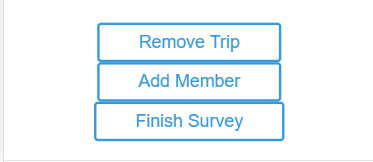
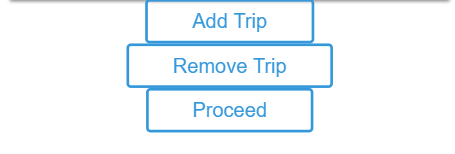
updating hhs wiki

Changed region(s): [[0.0, 0.0, 1.0, 0.8831]]

diff --git a/src/Components/Wiki/Wiki_HHS.js b/src/Components/Wiki/Wiki_HHS.js
@@ -41,7 +41,7 @@ class Wiki extends Component {
         <div className={classes.Wiki}>
           <h4>Aim:</h4>
           <p>
-            The aim of this project is to build a tool to collect the trip
+            The aim of this survey is to build a tool to collect the trip
             diaries conveniently without asking any personal information and
             locations of the users. A typical trip diary attempts to answer the
             following questions:
@@ -177,7 +177,7 @@ class Wiki extends Component {
               </li>
               <li>
                 Enter if you are respondent, head of family and whether if you
-                stay at home for the whole day and click on submit.
+                stay at home for the whole day and click on submit.{" "}
                 <span
                   className={classes.ImageLink}
                   onClick={() => this.onClickHandler(MemberScreenshot3)}
@@ -192,7 +192,7 @@ class Wiki extends Component {
             <li>Trip page:</li>
             <ul>
               <li>
-                Enter the state and district in which a trip is made.{" "}
+                Enter the state and district in which a trip is made, and click on proceed. If the trip is outside the study region, a new member page will appear. {" "}
                 <span
                   className={classes.ImageLink}
                   onClick={() => this.onClickHandler(TripScreenshot1)}
@@ -212,7 +212,7 @@ class Wiki extends Component {
                 </span>
               </li>
               <li>
-                Enter the type of origin and appeoximate departure time.{" "}
+                Enter the type of origin and approximate departure time.{" "}
                 <span
                   className={classes.ImageLink}
                   onClick={() => this.onClickHandler(TripScreenshot3)}
@@ -233,7 +233,7 @@ class Wiki extends Component {
               </li>
               <li>
                 Enter the travel modes (vehicle/walk) in the order which the
-                member has used them.
+                member has used them.{" "}
                 <span
                   className={classes.ImageLink}
                   onClick={() => this.onClickHandler(TripScreenshot5)}
@@ -242,8 +242,8 @@ class Wiki extends Component {
                 </span>
               </li>
               <li>
-                Select the travel time, travel cost and travel distance ranges
-                for the whole trip. Click on 'Add Trip'.
+                Select the travel cost and travel distance ranges
+                for the whole trip. After that, click on 'Add Trip'.{" "}
                 <span
                   className={classes.ImageLink}
                   onClick={() => this.onClickHandler(TripScreenshot6)}
@@ -257,9 +257,8 @@ class Wiki extends Component {
                 departure time.
               </li>
               <li>
-                Click on 'Remove trip' to remove a trip. Click on 'Add Member'
-                if all trips of the current member are entered. Click on 'Finish
-                Survey' only if information of all members are entered.{" "}
+                Click on 'Remove trip' to remove a trip. Click on 'Proceed'
+                if all trips of the current member are entered. This process will be repeated for all members.{" "}
                 <span
                   className={classes.ImageLink}
                   onClick={() => this.onClickHandler(TripScreenshot7)}

diff --git a/src/Components/Wiki/Wiki.js b/src/Components/Wiki/Wiki.js
@@ -7,7 +7,7 @@ import Tabs from "@material-ui/core/Tabs";
 import Tab from "@material-ui/core/Tab";
 import Typography from "@material-ui/core/Typography";
 import Box from "@material-ui/core/Box";
-import WikiHss from "./Wiki_HSS";
+import WikiHhs from "./Wiki_HHS";
 import WikiPts from "./Wiki_PTS";
 
 function TabPanel(props) {
@@ -43,12 +43,12 @@ function a11yProps(index) {
 const useStyles = makeStyles(theme => ({
   root: {
     backgroundColor: theme.palette.background.paper,
-    margin: 20,
-    padding: 20
+    margin: 10,
+    padding: 10
   },
   header: {
     textAlign: "center",
-    fontSize: 40
+    fontSize: 30
   }
 }));
 
@@ -87,7 +87,7 @@ function Wiki() {
         onChangeIndex={handleChangeIndex}
       >
         <TabPanel value={value} index={0} dir={theme.direction}>
-          <WikiHss />
+          <WikiHhs />
         </TabPanel>
         <TabPanel value={value} index={1} dir={theme.direction}>
           <WikiPts />
